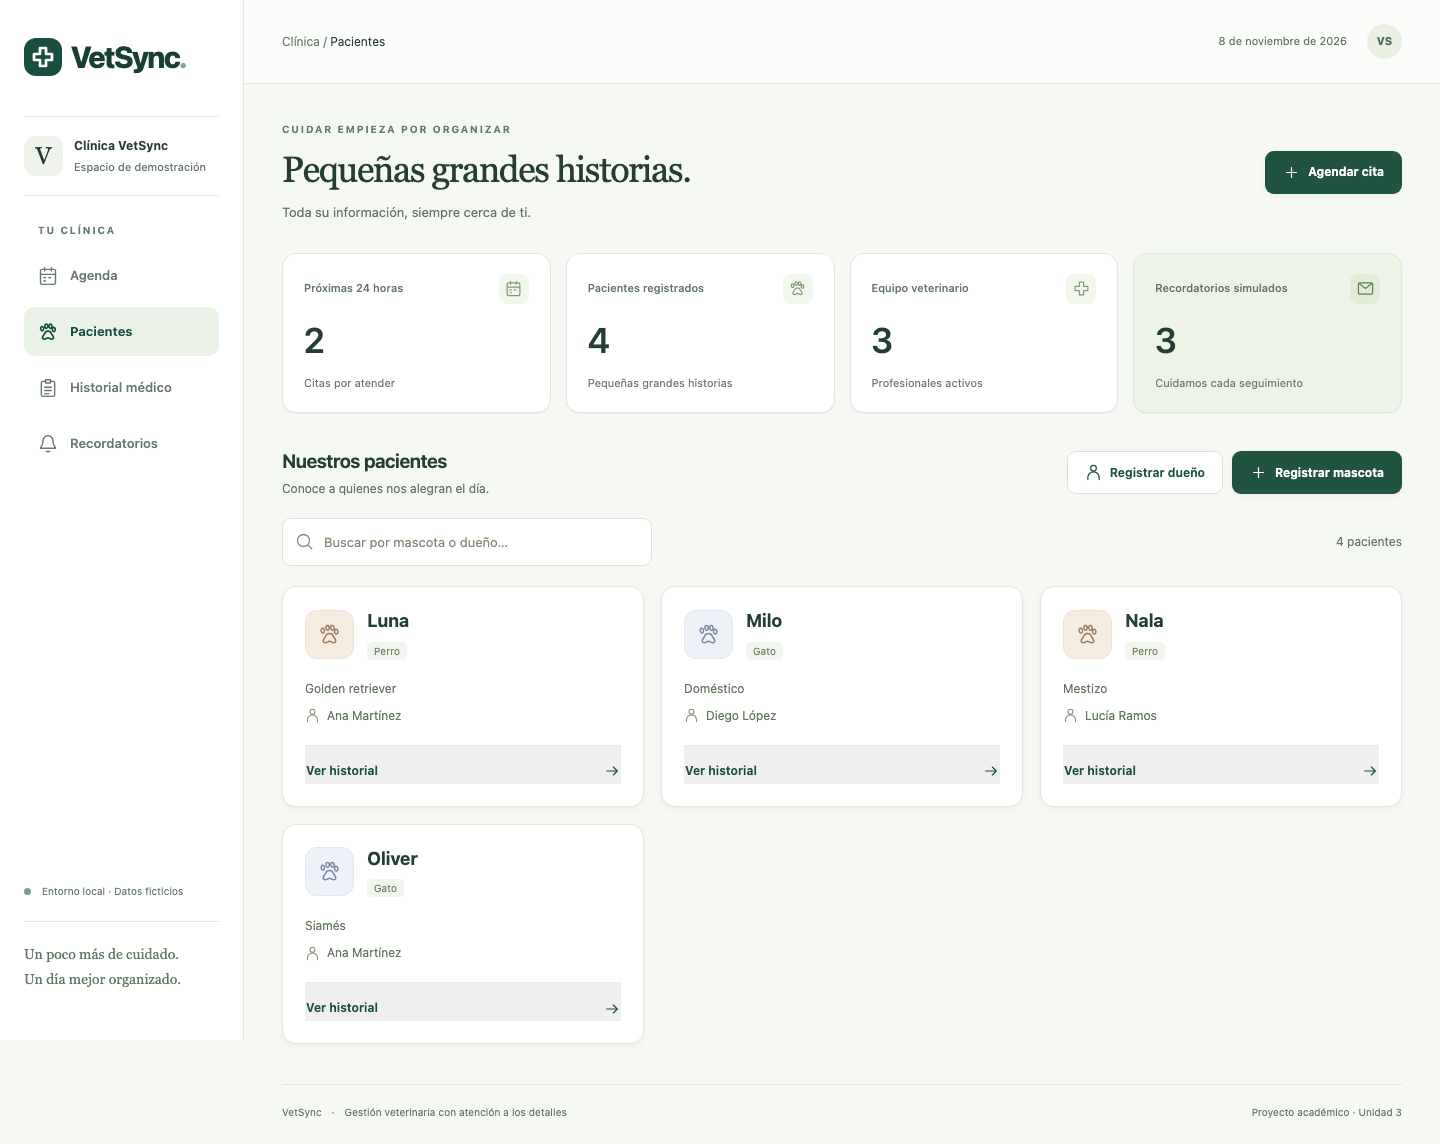
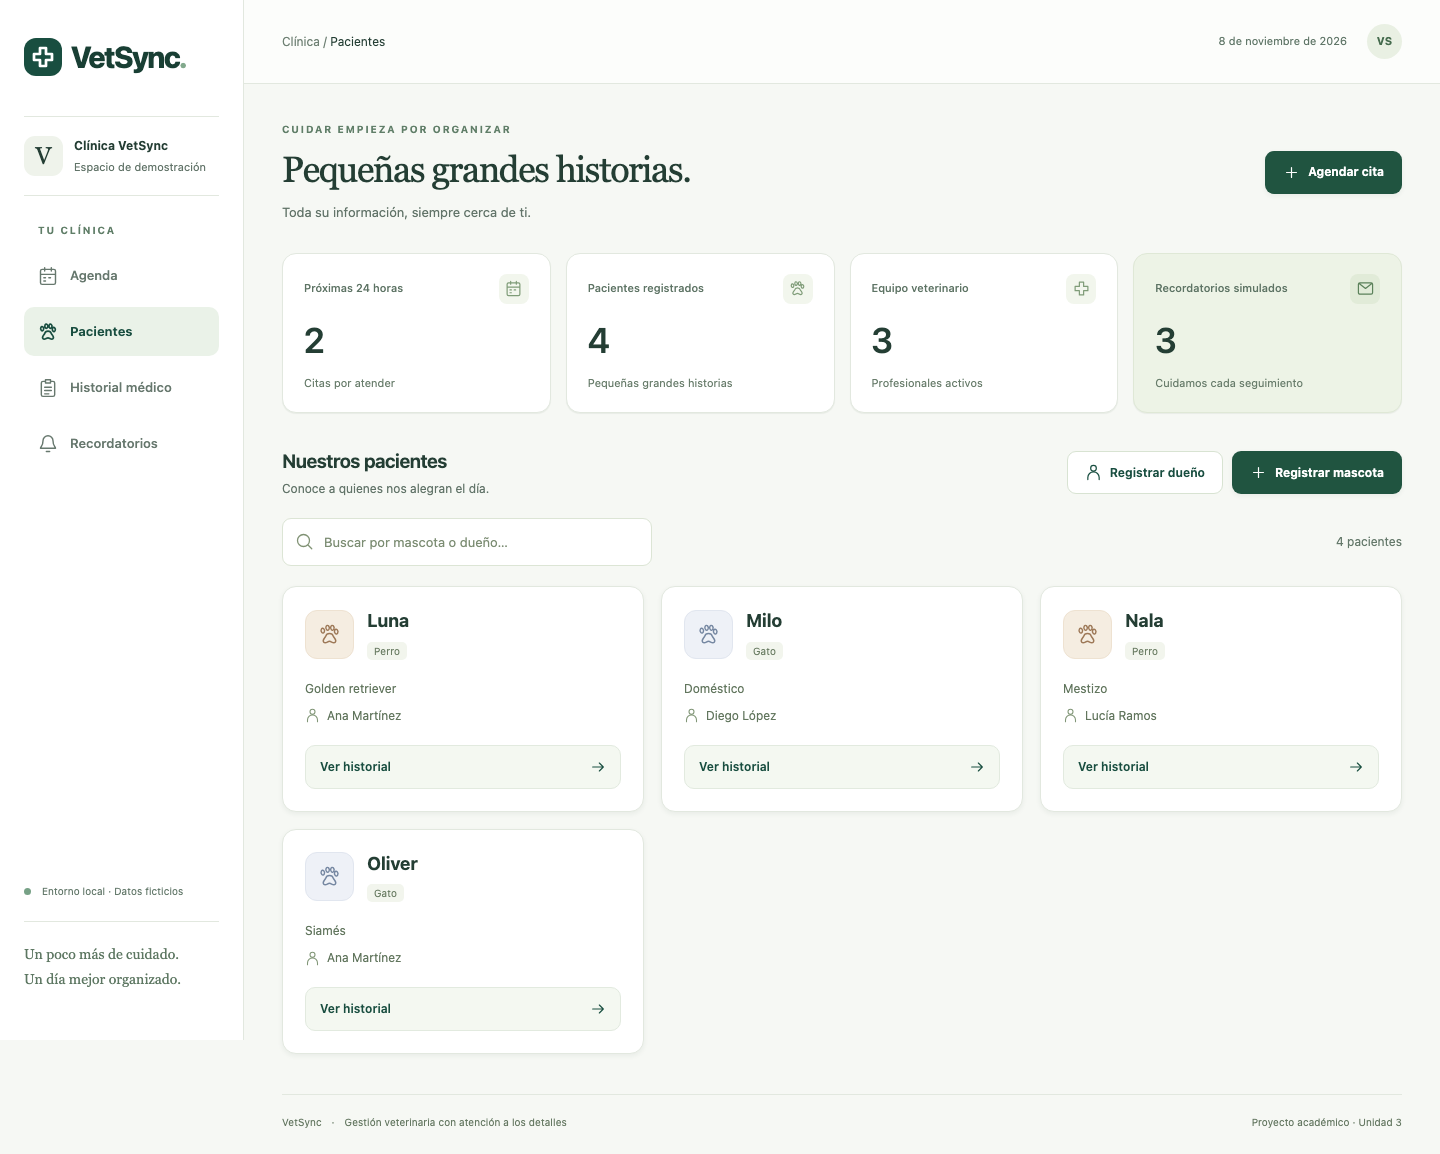
style: integrar acceso al historial en tarjetas de pacientes

diff --git a/src/web/styles.css b/src/web/styles.css
@@ -828,20 +828,35 @@ footer {
   color: #819677;
 }
 .patient-history {
-  width: 100%;
+  display: flex;
+  align-items: center;
   justify-content: space-between;
-  border-top: 1px solid #e6ecde;
-  border-radius: 0;
-  padding: 14px 0 0;
+  width: 100%;
+  min-height: 44px;
+  margin-top: 4px;
+  padding: 12px 14px;
+  border: 1px solid #e2eadf;
+  border-radius: 10px;
+  background: #f4f8f1;
   color: var(--green);
-  min-height: 39px;
+  font: inherit;
+  font-size: 12px;
+  font-weight: 600;
+  cursor: pointer;
+  transition: background 150ms ease, border-color 150ms ease;
 }
 .patient-history:hover {
-  color: #55814d;
+  background: #eaf2e5;
+  border-color: #bdcfb6;
+}
+.patient-history:focus-visible {
+  outline: 2px solid var(--green);
+  outline-offset: 3px;
 }
 .patient-history .icon {
   width: 16px;
   height: 16px;
+  flex-shrink: 0;
   order: 2;
 }
 .history-panel {
